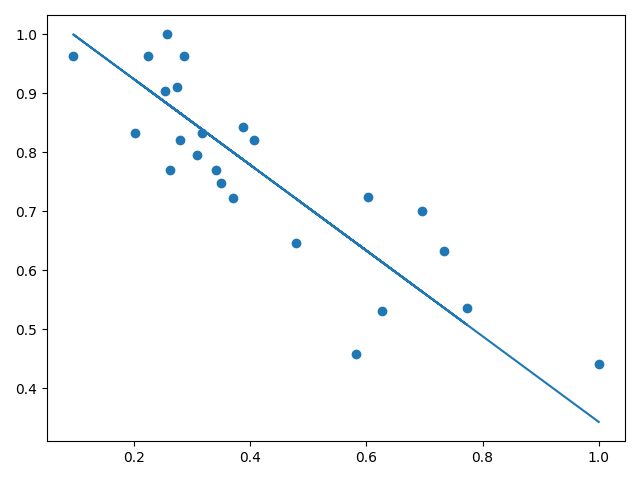
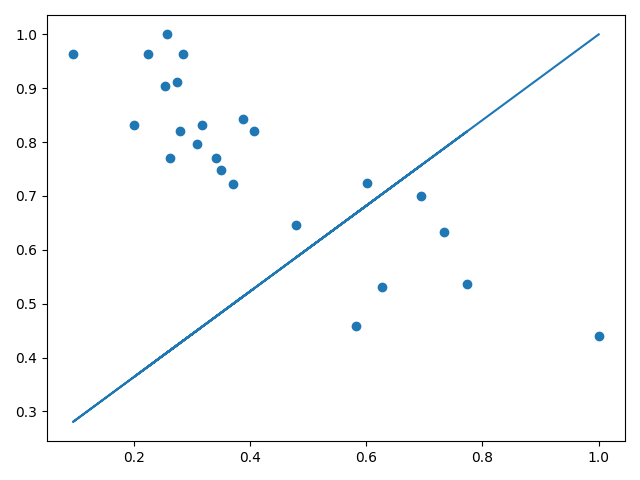
trial

diff --git a/train_model.py b/train_model.py
@@ -4,50 +4,55 @@ from pandas import DataFrame
 def train_model(lhs: DataFrame, rhs: DataFrame, iterations: int) -> tuple:
     theta_0 = 0
     theta_1 = 0
+    ntheta_0 = 0
+    ntheta_1 = 0
     se = 0
     y = 0
     lst = [(0, 0, 0)]
-    index = 0
+
     i = 0
     mse = 0
+    minimum = float("inf")
     try:
         for i in range(iterations):
-            theta_1 = float(i / iterations)
+            theta_1 = i / iterations
 
             for j, (x_unit, y_unit) in enumerate(zip(lhs, rhs)):
-                y = theta_1 * x_unit + theta_0
-                # at first iteration, affect a first value / state
-                # to the se (square error) variable
-                if i == 0:
-                    # first square error calculation
-                    se = (y - y_unit) ** 2
-                    theta_0 = - theta_1 * x_unit - y
-                    lst.insert(j, (theta_0, theta_1, se))
-                    # sets the index at which the square error is
-                    # the smallest
-                    index = j
 
-                elif ((y - y_unit) ** 2 < se):
-                    # take the smaller value of the square error to minimize
-                    # the sse (sum of square errors)
-                    se = (y - y_unit) ** 2
-                    theta_0 = - theta_1 * x_unit - y
-                    lst.insert(j, (theta_0, theta_1, se))
-                    # sets the index at which the square error is
-                    # the smallest
-                    index = j
+                # y = ax + b
+                # y - b = ax
+                # -b = ax - y
+                # b = -(ax - y)
+                theta_0 = theta_1 * x_unit + y
+                # y = ax + b
+                #-ax = -y + b
+                #-a = (-y + b) / x
+                #a = -(-y + b) / x
+                # theta_1 = y - theta_0 / x_unit
 
-        # take smallest square error value and set the related theta_0
-        ntheta_0 = - lst[index][0] * 0.1  # step unit in the graph normalized
-        # (btw 0 and 1)
-        # same with the theta_1
-        ntheta_1 = - lst[index][1] / len(lhs)
+                y = -theta_1 * x_unit + theta_0
 
-        _, _, max_value_tuple = max(lst, key=lambda x: x[2])
-        _, _, min_value_tuple = min(lst, key=lambda x: x[2])
-        mse = ((max_value_tuple + min_value_tuple) / len(lst)) ** 0.5
+                # first square error calculation
+                se = (y - y_unit) ** 2
 
-        return ntheta_0, ntheta_1, 100 - mse / 100
+                lst.append((theta_0, theta_1, se))
+
+                if se < minimum:
+                    minimum = se
+                    print("min_sq_err", se)
+            
+            # Sort tuple list by Nth element of tuple
+            # using sort() + lambda
+            lst.sort(key = lambda x: x[2])
+            # This reverses all the pairs, uses min() as normal (comparing the new first number
+            # before comparing the second), and then un-reverses that resulting tuple back to the
+            # original format.
+            # ntheta_0, ntheta_1, min_value_tuple = min_tuple
+            # mse = min_value_tuple ** 0.5
+        print("0", lst[len(lst) - 1][0])
+        print("0", lst[len(lst) - 1][1])
+        print("0", lst[1][2])
+        return lst[len(lst) - 1][0], lst[len(lst) - 1][1], lst[len(lst) - 1][2]
 
     except Exception as e:
         raise AssertionError(f"Error: {e}")

diff --git a/give_price.py b/give_price.py
@@ -1,4 +1,4 @@
-from matplotlib.pyplot import savefig, tight_layout, show, subplots
+from matplotlib.pyplot import savefig, tight_layout, show, subplots, ylim
 from pandas import DataFrame, read_csv
 from train_model import train_model
 
@@ -35,10 +35,7 @@ def normalize(values: DataFrame) -> DataFrame:
 
     nvalues = []
     for i, unit in enumerate(values):
-        try:
-            nvalues.insert(i, unit / values.max())
-        except Exception as e:
-            raise AssertionError(f"Error: {e}")
+        nvalues.insert(i, unit / values.max())
 
     return DataFrame(nvalues)
 
@@ -46,10 +43,7 @@ def normalize(values: DataFrame) -> DataFrame:
 def normalize_list(values: list) -> list:
     nvalues = []
     for i, unit in enumerate(values):
-        try:
-            nvalues.insert(i, unit / max(values))
-        except Exception as e:
-            raise AssertionError(f"Error: {e}")
+        nvalues.insert(i, unit / max(values))
 
     return nvalues
 
@@ -59,11 +53,13 @@ def create_figure(exp: int, lhs: DataFrame, rhs: DataFrame) -> tuple:
     theta_1 = 0
     limit = float('inf')
     fig, ax = subplots()
-    for i in range(10 * exp):   # try with max value 10,000 and wait
-        theta_0, theta_1, mse = train_model(lhs, rhs, 10 ** exp)
-        if mse < limit:
-            limit = mse
-            exp += 1
+
+    iterations = 1000
+    theta_0, theta_1, mse = train_model(lhs, rhs, iterations)
+    print("theta_1", theta_1)
+    print("theta_0", theta_0)
+    print("mse", mse)
+
     display_points(fig, ax, lhs, rhs, theta_0, theta_1)
 
     return theta_0, theta_1, mse
@@ -75,7 +71,7 @@ def display_points(fig: any, ax: any, frame_x: DataFrame, frame_y: DataFrame,
     y_pred = []
 
     for i, unit in enumerate(frame_x):
-        y_pred.insert(i, coeff * unit + b)
+        y_pred.append(coeff * unit + b)
 
     ax.plot(normalize(frame_x), normalize_list(y_pred))
     ax.scatter(normalize(frame_x), normalize(frame_y))
